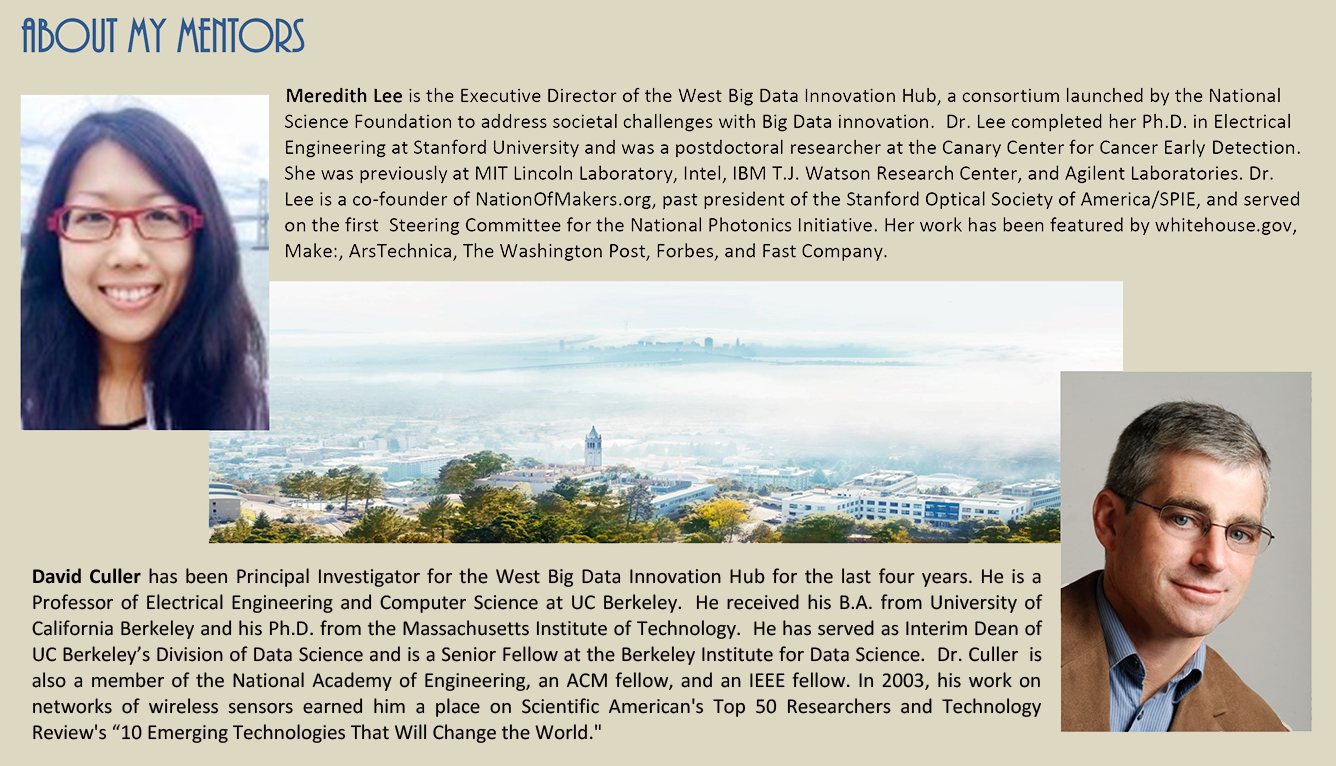
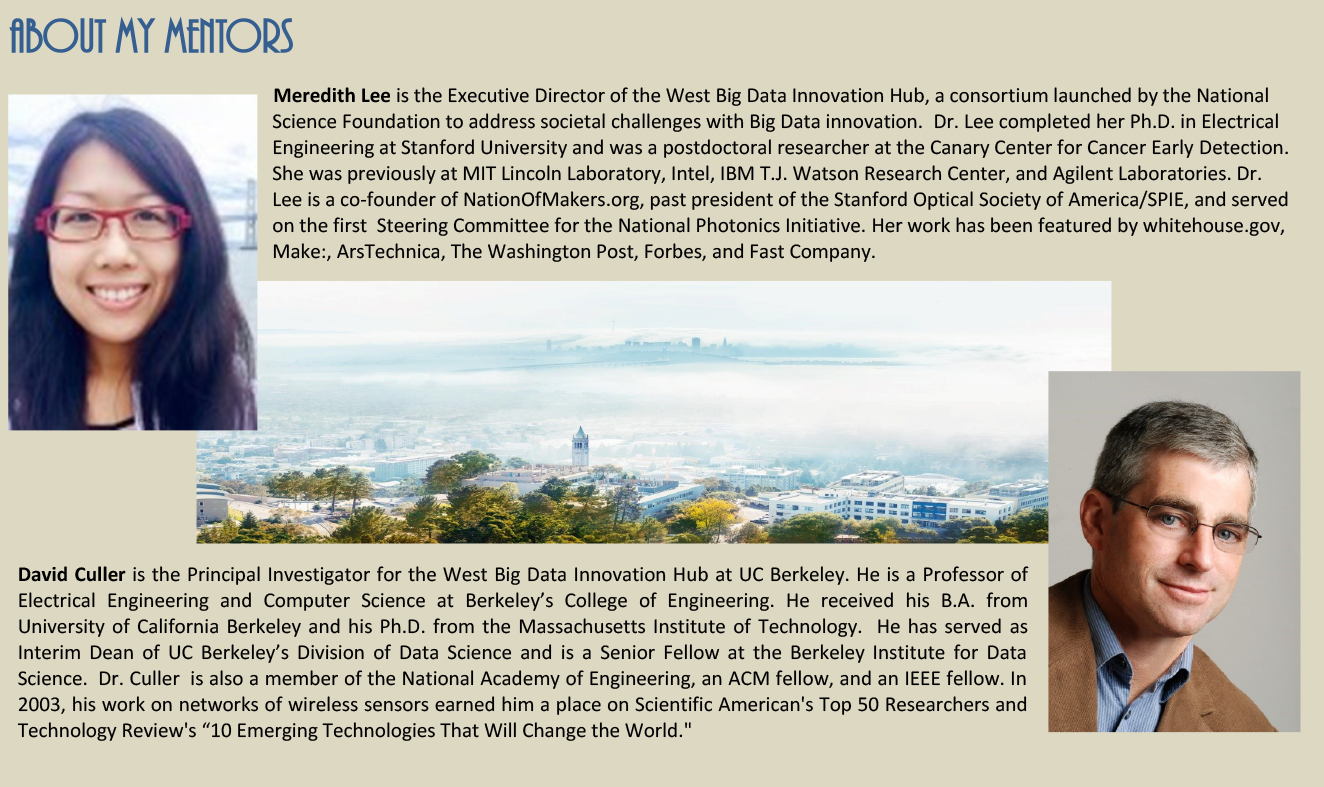
Changed to updated about mentor from google drive

diff --git a/2019/aboutmentor.html b/2019/aboutmentor.html
@@ -1,102 +1,102 @@
 <html>
 <head>
-<title>About My Mentors -  revised copy</title>
+<title>aboutmentor</title>
 <meta http-equiv="Content-Type" content="text/html; charset=utf-8">
 </head>
 <body bgcolor="#DDD8C2" leftmargin="0" topmargin="0" marginwidth="0" marginheight="0">
-<!-- Save for Web Slices (About My Mentors -  revised copy.jpg) -->
+<!-- Save for Web Slices (aboutmentor.psd) -->
 <table id="Table_01" width="1400" height="1083" align="center" border="0" cellpadding="0" cellspacing="0">
 	<tr>
 		<td colspan="17">
-			<img src="images/aboutmentor_01.png" width="1400" height="78" alt=""></td>
+			<img src="images/aboutmentor_01.gif" width="1400" height="76" alt=""></td>
 	</tr>
 	<tr>
 		<td colspan="2" rowspan="2">
-			<img src="images/aboutmentor_02.png" width="69" height="127" alt=""></td>
-		<td><a href="index"><img src="images/aboutmentor_03.png" width="67" height="34" alt=""></a></td>
+			<img src="images/aboutmentor_02.gif" width="64" height="129" alt=""></td>
+		<td><a href="index"><img src="images/aboutmentor_03.gif" width="72" height="39" alt=""></a></td>
 		<td rowspan="2">
-			<img src="images/aboutmentor_04.png" width="35" height="127" alt=""></td>
-		<td><a href="aboutme"><img src="images/aboutmentor_05.png" width="115" height="34" alt=""></a></td>
+			<img src="images/aboutmentor_04.gif" width="35" height="129" alt=""></td>
+		<td><a href="aboutme"><img src="images/aboutmentor_05.gif" width="114" height="39" alt=""></a></td>
 		<td rowspan="2">
-			<img src="images/aboutmentor_06.png" width="50" height="127" alt=""></td>
-		<td><a href="aboutmentor"><img src="images/aboutmentor_07.png" width="192" height="34" alt=""></a></td>
+			<img src="images/aboutmentor_06.gif" width="48" height="129" alt=""></td>
+		<td><a href="aboutmentor"><img src="images/aboutmentor_07.gif" width="186" height="39" alt=""></a></td>
 		<td rowspan="2">
-			<img src="images/aboutmentor_08.png" width="39" height="127" alt=""></td>
-		<td><a href="research"><img src="images/aboutmentor_09.png" width="205" height="34" alt=""></a></td>
+			<img src="images/aboutmentor_08.gif" width="46" height="129" alt=""></td>
+		<td><a href="research"><img src="images/aboutmentor_09.gif" width="208" height="39" alt=""></a></td>
 		<td rowspan="2">
-			<img src="images/aboutmentor_10.png" width="52" height="127" alt=""></td>
-		<td><a href="journals"><img src="images/aboutmentor_11.png" width="168" height="34" alt=""></a></td>
+			<img src="images/aboutmentor_10.gif" width="53" height="129" alt=""></td>
+		<td><a href="journals"><img src="images/aboutmentor_11.gif" width="163" height="39" alt=""></a></td>
 		<td rowspan="2">
-			<img src="images/aboutmentor_12.png" width="44" height="127" alt=""></td>
+			<img src="images/aboutmentor_12.gif" width="50" height="129" alt=""></td>
 		<td>
-			<img src="images/aboutmentor_13.png" width="135" height="34" alt=""></td>
+			<img src="images/aboutmentor_13.gif" width="132" height="39" alt=""></td>
 		<td rowspan="2">
-			<img src="images/aboutmentor_14.png" width="48" height="127" alt=""></td>
-		<td><a href="../images/resume.pdf"><img src="images/aboutmentor_15.png" width="100" height="34" alt=""></a></td>
+			<img src="images/aboutmentor_14.gif" width="46" height="129" alt=""></td>
+		<td><a href="../images/resume.pdf"><img src="images/aboutmentor_15.gif" width="105" height="39" alt=""></a></td>
 		<td colspan="2" rowspan="2">
-			<img src="images/aboutmentor_16.png" width="81" height="127" alt=""></td>
+			<img src="images/aboutmentor_16.gif" width="78" height="129" alt=""></td>
 	</tr>
 	<tr>
 		<td>
-			<img src="images/aboutmentor_17.png" width="67" height="93" alt=""></td>
+			<img src="images/aboutmentor_17.gif" width="72" height="90" alt=""></td>
 		<td>
-			<img src="images/aboutmentor_18.png" width="115" height="93" alt=""></td>
+			<img src="images/aboutmentor_18.gif" width="114" height="90" alt=""></td>
 		<td>
-			<img src="images/aboutmentor_19.png" width="192" height="93" alt=""></td>
+			<img src="images/aboutmentor_19.gif" width="186" height="90" alt=""></td>
 		<td>
-			<img src="images/aboutmentor_20.png" width="205" height="93" alt=""></td>
+			<img src="images/aboutmentor_20.gif" width="208" height="90" alt=""></td>
 		<td>
-			<img src="images/aboutmentor_21.png" width="168" height="93" alt=""></td>
+			<img src="images/aboutmentor_21.gif" width="163" height="90" alt=""></td>
 		<td>
-			<img src="images/aboutmentor_22.png" width="135" height="93" alt=""></td>
+			<img src="images/aboutmentor_22.gif" width="132" height="90" alt=""></td>
 		<td>
-			<img src="images/aboutmentor_23.png" width="100" height="93" alt=""></td>
+			<img src="images/aboutmentor_23.gif" width="105" height="90" alt=""></td>
 	</tr>
 	<tr>
 		<td rowspan="2">
-			<img src="images/aboutmentor_24.png" width="34" height="877" alt=""></td>
+			<img src="images/aboutmentor_24.gif" width="46" height="877" alt=""></td>
 		<td colspan="15">
-			<img src="images/aboutmentor_25.png" alt="" width="1336" height="766" usemap="#Map" border="0"></td>
+			<img src="images/aboutmentor_25.png" alt="" width="1324" height="787" usemap="#Map" border="0"></td>
 		<td rowspan="2">
-			<img src="images/aboutmentor_26.png" width="30" height="877" alt=""></td>
+			<img src="images/aboutmentor_26.gif" width="30" height="877" alt=""></td>
 	</tr>
 	<tr>
 		<td colspan="15">
-			<img src="images/aboutmentor_27.png" width="1336" height="111" alt=""></td>
+			<img src="images/aboutmentor_27.gif" width="1324" height="90" alt=""></td>
 	</tr>
 	<tr>
 		<td>
-			<img src="images/spacer.gif" width="34" height="1" alt=""></td>
+			<img src="images/spacer.gif" width="46" height="1" alt=""></td>
+		<td>
+			<img src="images/spacer.gif" width="18" height="1" alt=""></td>
+		<td>
+			<img src="images/spacer.gif" width="72" height="1" alt=""></td>
 		<td>
 			<img src="images/spacer.gif" width="35" height="1" alt=""></td>
 		<td>
-			<img src="images/spacer.gif" width="67" height="1" alt=""></td>
-		<td>
-			<img src="images/spacer.gif" width="35" height="1" alt=""></td>
-		<td>
-			<img src="images/spacer.gif" width="115" height="1" alt=""></td>
-		<td>
-			<img src="images/spacer.gif" width="50" height="1" alt=""></td>
-		<td>
-			<img src="images/spacer.gif" width="192" height="1" alt=""></td>
-		<td>
-			<img src="images/spacer.gif" width="39" height="1" alt=""></td>
-		<td>
-			<img src="images/spacer.gif" width="205" height="1" alt=""></td>
-		<td>
-			<img src="images/spacer.gif" width="52" height="1" alt=""></td>
-		<td>
-			<img src="images/spacer.gif" width="168" height="1" alt=""></td>
-		<td>
-			<img src="images/spacer.gif" width="44" height="1" alt=""></td>
-		<td>
-			<img src="images/spacer.gif" width="135" height="1" alt=""></td>
+			<img src="images/spacer.gif" width="114" height="1" alt=""></td>
 		<td>
 			<img src="images/spacer.gif" width="48" height="1" alt=""></td>
 		<td>
-			<img src="images/spacer.gif" width="100" height="1" alt=""></td>
+			<img src="images/spacer.gif" width="186" height="1" alt=""></td>
 		<td>
-			<img src="images/spacer.gif" width="51" height="1" alt=""></td>
+			<img src="images/spacer.gif" width="46" height="1" alt=""></td>
+		<td>
+			<img src="images/spacer.gif" width="208" height="1" alt=""></td>
+		<td>
+			<img src="images/spacer.gif" width="53" height="1" alt=""></td>
+		<td>
+			<img src="images/spacer.gif" width="163" height="1" alt=""></td>
+		<td>
+			<img src="images/spacer.gif" width="50" height="1" alt=""></td>
+		<td>
+			<img src="images/spacer.gif" width="132" height="1" alt=""></td>
+		<td>
+			<img src="images/spacer.gif" width="46" height="1" alt=""></td>
+		<td>
+			<img src="images/spacer.gif" width="105" height="1" alt=""></td>
+		<td>
+			<img src="images/spacer.gif" width="48" height="1" alt=""></td>
 		<td>
 			<img src="images/spacer.gif" width="30" height="1" alt=""></td>
 	</tr>
@@ -104,8 +104,8 @@
 <!-- End Save for Web Slices -->
 
 <map name="Map">
-  <area shape="rect" coords="282,84,405,107" href="https://westbigdatahub.org/speakers/meredith-lee/" target="_blank">
-  <area shape="rect" coords="30,566,143,588" href="https://people.eecs.berkeley.edu/~culler/" target="_blank">
+  <area shape="rect" coords="270,84,394,108" href="https://westbigdatahub.org/speakers/meredith-lee/" target="_blank">
+  <area shape="rect" coords="15,563,127,585" href="https://people.eecs.berkeley.edu/~culler/" target="_blank">
 </map>
 </body>
 </html>
